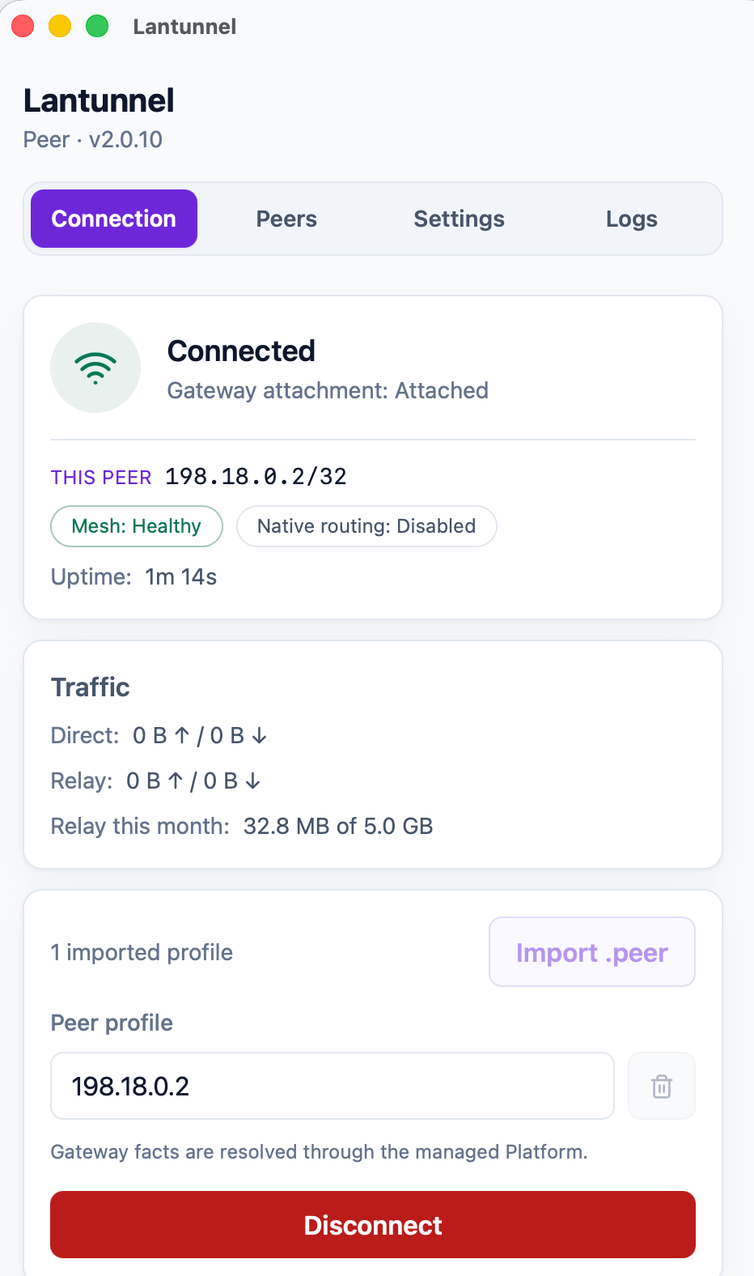
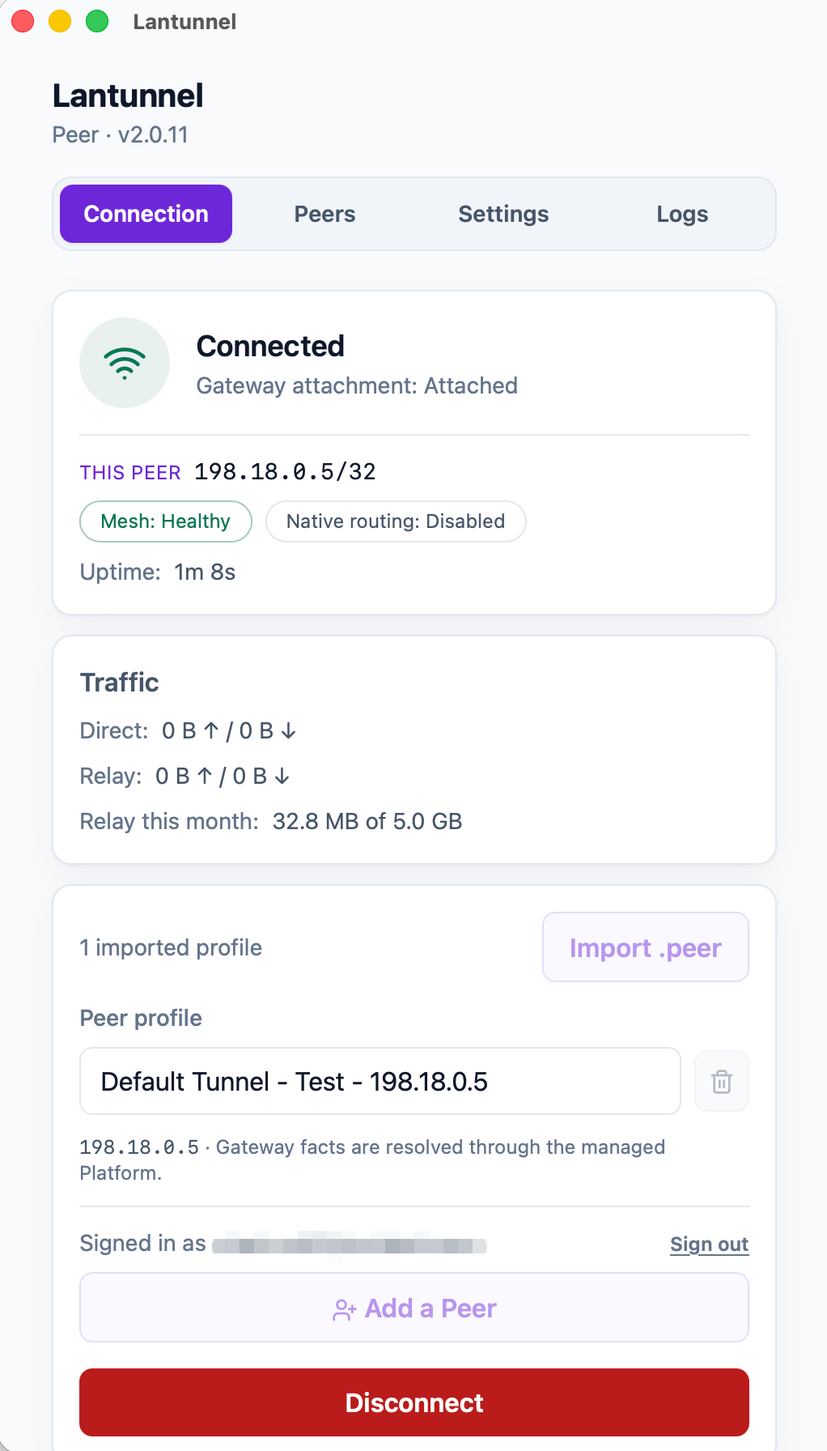
docs: describe the Client sign-in the way it actually works
The README was written before the Peer picker existed and still said the
Client only creates a Peer, and the usage guides never mentioned signing
in from the app at all — they documented the browser route as the only
one there was.

Both now carry the real sequence: pick the Tunnel by name, then adopt a
Peer it has already issued or create one. Adopting is the part worth
naming, because a device added from the Console already has an identity
and a second one leaves the first orphaned in the Tunnel.

It also corrects a claim I had put in the release notes: signing in is a
desktop and phone feature. The device grant needs a screen to show its
code on, and a headless Client has none, so it still imports a profile
file — the guides say so where a server or router operator will read it.

The Connection screenshot is from a connected Client with the account
panel, which is the part of that screen that changed.

diff --git a/README.zh-TW.md b/README.zh-TW.md
@@ -84,7 +84,7 @@ Lantunnel 把這些機器組成一個小型私有網路 —— 一條 **Tunnel**
 
 <table>
   <tr>
-    <td width="25%" align="center" valign="top"><img src="./docs/images/client-connection.png" width="220" alt="連線"><br><sub><b>連線</b><br>連線狀態、本機 Overlay IP，以及直連和中繼各走了多少位元組。</sub></td>
+    <td width="25%" align="center" valign="top"><img src="./docs/images/client-connection.png" width="220" alt="連線"><br><sub><b>連線</b><br>連線狀態、本機 Overlay IP、直連與中繼各走了多少位元組，以及目前登入的帳號。</sub></td>
     <td width="25%" align="center" valign="top"><img src="./docs/images/client-peers.png" width="220" alt="Peers"><br><sub><b>Peers</b><br>Tunnel 裡的每個 Peer、它的 Overlay IP，以及目前走的路徑。</sub></td>
     <td width="25%" align="center" valign="top"><img src="./docs/images/client-settings.png" width="220" alt="設定"><br><sub><b>設定</b><br>開機自動啟動、原生路由、內網匯出。</sub></td>
     <td width="25%" align="center" valign="top"><img src="./docs/images/client-access.png" width="220" alt="存取"><br><sub><b>存取</b><br>本機回送 SOCKS5 監聽，以及這台裝置願意提供什麼。</sub></td>
@@ -153,16 +153,24 @@ flowchart LR
 什麼都不用部署。平台替你跑 Gateway 叢集，你只跑 Client。
 
 1. **裝上 Client** —— [lantunnel.app/download](https://lantunnel.app/download)。
-2. **登入** —— 在連線頁點「Sign in」。Client 會開啟你的瀏覽器，你核對並批准它顯示的那串碼，就登入好了。不用下載任何檔案。
-3. **加一個 Peer** —— 點「Add a Peer」，選好 Tunnel，給這台裝置取個名字。Client 會一步建好 Peer 並匯入進來。
+2. **登入** —— 在連線頁點「Sign in」。Client 會顯示一串短碼並開啟瀏覽器；在網頁上核對並批准這串碼，Client 就會自己登入。什麼都不用下載。
+3. **加一個 Peer** —— 點「Add a Peer」，按名稱選好 Tunnel。然後要麼**直接取用這條 Tunnel 已經簽發過的 Peer**，要麼給這台裝置取個名字新建一個。兩種方式都會在同一步裡把設定匯入進來。
 4. **連線。**
 
 每台想加進 Tunnel 的裝置都重複一遍。然後把程式的代理指到 `127.0.0.1:1080`，或者開啟系統路由直接用內網位址存取。
 
-<details>
-<summary>更習慣在瀏覽器裡操作？或者要從手機加入？</summary>
+> 同一台機器上，優先取用已有的 Peer，而不是再建一個。被你丟下的那個 Peer 仍然留在 Tunnel 裡，還占著它的位址。
 
-到 [lantunnel.app](https://lantunnel.app/) 建好 Peer，下載它的 `.peer` 檔，在 Client 裡用「Import .peer」匯入。Android 和 iOS 上掃這份設定的 QR Code 同樣能匯入。
+<details>
+<summary>無介面主機？或者還沒有帳號？</summary>
+
+登入是桌面端和手機端的功能 —— 無介面的 Client 沒有螢幕顯示短碼，所以它走設定檔這條路。到 [lantunnel.app](https://lantunnel.app/) 建好 Peer，下載它的 `.peer`，然後匯入：
+
+```bash
+lantunnel-client tunnel import ./nas.peer
+```
+
+桌面端用「Import .peer」是同一回事；Android 和 iOS 上掃這份設定的 QR Code 也能匯入。
 </details>
 
 <a id="mode-2"></a>

diff --git a/README.zh-CN.md b/README.zh-CN.md
@@ -84,7 +84,7 @@ Lantunnel 把这些机器组成一个小小的私有网络 —— 一条 **Tunne
 
 <table>
   <tr>
-    <td width="25%" align="center" valign="top"><img src="./docs/images/client-connection.png" width="220" alt="连接"><br><sub><b>连接</b><br>连接状态、本机 Overlay IP，以及直连和中继各走了多少字节。</sub></td>
+    <td width="25%" align="center" valign="top"><img src="./docs/images/client-connection.png" width="220" alt="连接"><br><sub><b>连接</b><br>连接状态、本机 Overlay IP、直连与中继各走了多少字节，以及当前登录的账号。</sub></td>
     <td width="25%" align="center" valign="top"><img src="./docs/images/client-peers.png" width="220" alt="Peers"><br><sub><b>Peers</b><br>Tunnel 里的每个 Peer、它的 Overlay IP，以及当前走的路径。</sub></td>
     <td width="25%" align="center" valign="top"><img src="./docs/images/client-settings.png" width="220" alt="设置"><br><sub><b>设置</b><br>开机自启、原生路由、内网导出。</sub></td>
     <td width="25%" align="center" valign="top"><img src="./docs/images/client-access.png" width="220" alt="访问"><br><sub><b>访问</b><br>本地回环 SOCKS5 监听，以及这台设备愿意提供什么。</sub></td>
@@ -153,16 +153,24 @@ flowchart LR
 什么都不用部署。平台替你跑 Gateway 集群，你只跑 Client。
 
 1. **装上 Client** —— [lantunnel.app/download](https://lantunnel.app/download)。
-2. **登录** —— 在连接页点「Sign in」。Client 会打开你的浏览器，你核对并批准它显示的那串码，就登录好了。不用下载任何文件。
-3. **加一个 Peer** —— 点「Add a Peer」，选好 Tunnel，给这台设备起个名字。Client 会一步建好 Peer 并导入进来。
+2. **登录** —— 在连接页点「Sign in」。Client 会显示一串短码并打开浏览器；在网页上核对并批准这串码，Client 就自己登录好了。什么都不用下载。
+3. **加一个 Peer** —— 点「Add a Peer」，按名字选好 Tunnel。然后要么**直接取用这条 Tunnel 已经签发过的 Peer**，要么给这台设备起个名字新建一个。两种方式都会在同一步里把配置导入进来。
 4. **连接。**
 
 每台想加进 Tunnel 的设备都重复一遍。然后把程序的代理指到 `127.0.0.1:1080`，或者打开系统路由直接用内网地址访问。
 
-<details>
-<summary>更习惯在浏览器里操作？或者要从手机加入？</summary>
+> 同一台机器上，优先取用已有的 Peer，而不是再建一个。被你丢下的那个 Peer 仍然留在 Tunnel 里，还占着它的地址。
 
-到 [lantunnel.app](https://lantunnel.app/) 建好 Peer，下载它的 `.peer` 文件，在 Client 里用「Import .peer」导入。Android 和 iOS 上扫这份配置的二维码同样能导入。
+<details>
+<summary>无界面主机？或者还没有账号？</summary>
+
+登录是桌面端和手机端的功能 —— 无界面的 Client 没有屏幕显示短码，所以它走配置文件这条路。到 [lantunnel.app](https://lantunnel.app/) 建好 Peer，下载它的 `.peer`，然后导入：
+
+```bash
+lantunnel-client tunnel import ./nas.peer
+```
+
+桌面端用「Import .peer」是同一回事；Android 和 iOS 上扫这份配置的二维码也能导入。
 </details>
 
 <a id="mode-2"></a>

diff --git a/README.md b/README.md
@@ -97,7 +97,7 @@ Lantunnel, easiest first — and the first one is three steps with no server to 
 
 <table>
   <tr>
-    <td width="25%" align="center" valign="top"><img src="./docs/images/client-connection.png" width="220" alt="Connection"><br><sub><b>Connection</b><br>State, this Peer's Overlay IP, and direct versus relayed bytes.</sub></td>
+    <td width="25%" align="center" valign="top"><img src="./docs/images/client-connection.png" width="220" alt="Connection"><br><sub><b>Connection</b><br>State, this Peer's Overlay IP, direct versus relayed bytes, and the account this Client is signed in as.</sub></td>
     <td width="25%" align="center" valign="top"><img src="./docs/images/client-peers.png" width="220" alt="Peers"><br><sub><b>Peers</b><br>Every Peer in the Tunnel, its Overlay IP, and the path in use.</sub></td>
     <td width="25%" align="center" valign="top"><img src="./docs/images/client-settings.png" width="220" alt="Settings"><br><sub><b>Settings</b><br>Start at login, native routing, LAN export.</sub></td>
     <td width="25%" align="center" valign="top"><img src="./docs/images/client-access.png" width="220" alt="Access"><br><sub><b>Access</b><br>The loopback SOCKS5 listener and what this device will serve.</sub></td>
@@ -124,21 +124,33 @@ the first one** — it needs no server, no certificates, and no DNS.
 Nothing to deploy. The Platform runs the Gateway fleet; you run the Client.
 
 1. **Install the Client** — [lantunnel.app/download](https://lantunnel.app/download).
-2. **Sign in** — press *Sign in* on the Connection screen. The Client opens your browser,
-   you approve the code it shows, and it is signed in. No file to download.
-3. **Add a Peer** — press *Add a Peer*, choose your Tunnel, and name this device. The
-   Client creates the Peer and imports it in one step.
+2. **Sign in** — press *Sign in* on the Connection screen. The Client shows a short code
+   and opens your browser; approve that code there and the Client is signed in. Nothing to
+   download.
+3. **Add a Peer** — press *Add a Peer* and pick your Tunnel by name. Then either take a
+   Peer the Tunnel has already issued, or name this device and create a new one. Either
+   way the profile is imported here in the same step.
 4. **Connect.**
 
 Repeat on every device you want in the Tunnel. Then point an app at `127.0.0.1:1080`, or
 turn on native routing and use the LAN addresses directly.
 
-<details>
-<summary>Prefer the browser, or joining from a phone?</summary>
+> Take the Peer that already exists rather than adding a second one for the same machine.
+> A Peer you leave behind stays in the Tunnel and keeps its address.
 
-Create the Peer at [lantunnel.app](https://lantunnel.app/), download its `.peer` file, and
-use **Import .peer** in the Client. On Android and iOS the same profile imports by
-scanning its QR code.
+<details>
+<summary>Headless host, or no account?</summary>
+
+Signing in is a desktop and phone feature — a headless Client has no screen to show a code
+on, so it takes a profile file. Create the Peer at
+[lantunnel.app](https://lantunnel.app/), download its `.peer`, and import it:
+
+```bash
+lantunnel-client tunnel import ./nas.peer
+```
+
+**Import .peer** does the same in the desktop app, and Android and iOS also import by
+scanning the profile's QR code.
 </details>
 
 <a id="mode-2"></a>

diff --git a/docs/USAGE.ja.md b/docs/USAGE.ja.md
@@ -57,6 +57,23 @@
 
 **[lantunnel.app](https://lantunnel.app/)** が Gateway フリートを代わりに運用します。アカウントごとに恒久無料の Tunnel が 1 本付き、P2P 通信は無制限、各 Client の背後の LAN 機器数も無制限、加えて直結できなかったときのために月 5 GB の暗号化リレーが使えます。
 
+### Client だけで済ませる
+
+デスクトップとスマートフォンの Client は最後まで自力でできるので、マシン間でファイルを運ぶ必要がありません。
+
+1. **Client を入れる** — [lantunnel.app/download](https://lantunnel.app/download) から、またはこのリポジトリからビルドして。
+2. **サインイン** — 接続画面の「Sign in」を押します。Client が短いコードを表示してブラウザーを開きます。ページのコードと Client のコードが同じことを確かめて承認すれば、Client は自分でサインインします。承認してよいのは、いま自分のデバイスで読み取っているコードだけです。
+3. **Peer を追加** — 「Add a Peer」を押し、Tunnel を名前で選びます。その Tunnel がすでに発行した Peer を引き取るか（Console から先に追加した端末にはすでに 1 つあります）、この端末に名前を付けて新規作成するかを選べます。プロファイルは同じ操作で取り込まれます。
+4. **接続。**
+
+端末ごとに繰り返します。ブラウザーで作ったばかりの Tunnel や Peer は、Tunnel 選択欄の「Refresh」を押すと現れます。
+
+サインインすると、そのアカウントのトークンが端末に保存されます。Tunnel 一覧を取得し Peer を追加できるものなので、所有者だけが読める形で保管されます — Linux と macOS では `0600`、iOS では Keychain、Android ではアプリ専用ストレージ。「Sign out」で削除されます。有効期限があり、切れた場合は自動更新ではなくサインアウトします。
+
+### ブラウザーで済ませる
+
+こちらは変わりません。画面がなくコードを表示できないヘッドレスホストでは、今もこの手順だけです。
+
 1. **Tunnel を作る** — [lantunnel.app](https://lantunnel.app/) に登録して無料 Tunnel を作成します。Gateway のアドレスも証明書も DNS 設定も不要です。
 2. **デバイスごとに Peer を追加** — ノート PC に 1 つ、NAS に 1 つ、デスクトップに 1 つ。それぞれの `.peer` プロファイルをダウンロードします。
 3. **Client をインストール** — [lantunnel.app/download](https://lantunnel.app/download) から、またはこのリポジトリからビルドして。

diff --git a/docs/USAGE.md b/docs/USAGE.md
@@ -67,6 +67,35 @@ run both, since a Tunnel is independent of any account.
 gets one permanent Free Tunnel: unlimited direct peer-to-peer traffic, unlimited LAN
 devices behind each Client, and 5 GB/month of encrypted relay for when direct fails.
 
+### From the Client
+
+The desktop and phone Clients do the whole thing, so there is no file to move between
+machines:
+
+1. **Install the Client** — [lantunnel.app/download](https://lantunnel.app/download), or
+   build it from this repository.
+2. **Sign in** — press *Sign in* on the Connection screen. The Client shows a short code
+   and opens your browser. Check that the code on the page matches the one on the Client,
+   approve it, and the Client signs in by itself. Only ever approve a code you are reading
+   off your own device.
+3. **Add a Peer** — press *Add a Peer* and pick the Tunnel by name. Then either take a
+   Peer the Tunnel has already issued — a device added from the Console first already has
+   one — or name this device and create a new one. The profile is imported in the same
+   step.
+4. **Connect.**
+
+Repeat on every device. A Tunnel or Peer created in the browser a moment ago appears after
+*Refresh* in the Tunnel picker.
+
+Signing in stores a token for this account on the device. It can list your Tunnels and add
+Peers to them, so it is kept owner-only — mode `0600` on Linux and macOS, the Keychain on
+iOS, app-private storage on Android — and *Sign out* removes it. It expires on its own,
+and an expired one signs the Client out rather than renewing itself.
+
+### From the browser
+
+Unchanged, and still the route for a headless host, which has no screen to show a code on:
+
 1. **Create a Tunnel** — sign up at [lantunnel.app](https://lantunnel.app/) and create your
    Free Tunnel. No Gateway address, no certificate, no DNS to configure.
 2. **Add a Peer per device** — one for the laptop, one for the NAS, one for the desktop.
@@ -439,6 +468,10 @@ what the UI's "block all incoming" writes, so the saved file matches what you as
 
 `--headless` (alias `--no-ui`) runs the identical runtime with no window, tray, or WebView
 — same reconnect logic, same PeerLink and relay behaviour, same SOCKS5 and TUN surfaces.
+
+Signing in from the app is a desktop and phone feature: the device grant needs a screen to
+show its code on. A headless host imports a `.peer` file — download it from the Console, or
+issue it with `lantunnel-admin`, and run `lantunnel-client tunnel import`.
 
 Download `lantunnel-client-headless-<version>-<triple>` rather than the desktop package.
 It is the same runtime built with the UI compiled out: no Tauri, no WebView, 5-7MB

diff --git a/docs/USAGE.fr.md b/docs/USAGE.fr.md
@@ -57,6 +57,23 @@ Les deux voies utilisent le même Client et le même protocole. Vous pouvez comm
 
 **[lantunnel.app](https://lantunnel.app/)** exploite la flotte de Gateways à votre place. Chaque compte dispose d'un Tunnel gratuit permanent : trafic pair à pair illimité, nombre illimité d'appareils LAN derrière chaque Client, et 5 Go de relais chiffré par mois pour les cas où la liaison directe échoue.
 
+### Depuis le Client
+
+Les Clients de bureau et mobiles font tout le parcours : aucun fichier à déplacer d'une machine à l'autre.
+
+1. **Installez le Client** — depuis [lantunnel.app/download](https://lantunnel.app/download), ou compilé depuis ce dépôt.
+2. **Connectez-vous** — appuyez sur « Sign in » dans l'écran de connexion. Le Client affiche un code court et ouvre votre navigateur. Vérifiez que le code de la page correspond à celui du Client, approuvez-le, et le Client se connecte tout seul. N'approuvez qu'un code que vous lisez à cet instant sur votre propre appareil.
+3. **Ajoutez un Peer** — appuyez sur « Add a Peer » et choisissez le Tunnel par son nom. Reprenez ensuite un Peer que le Tunnel a déjà émis — un appareil ajouté auparavant depuis la Console en a déjà un — ou nommez cet appareil et créez-en un nouveau. Le profil est importé dans la même étape.
+4. **Connectez-vous.**
+
+Recommencez sur chaque appareil. Un Tunnel ou un Peer créé il y a un instant dans le navigateur apparaît après un clic sur « Refresh » à côté du sélecteur de Tunnel.
+
+La connexion enregistre sur l'appareil un jeton de ce compte. Il peut lister vos Tunnels et y ajouter des Peers : il est donc conservé en lecture réservée au propriétaire — permissions `0600` sous Linux et macOS, le Trousseau sous iOS, le stockage privé de l'application sous Android — et « Sign out » le supprime. Il expire de lui-même, et un jeton expiré déconnecte le Client au lieu de se renouveler.
+
+### Depuis le navigateur
+
+Inchangé, et toujours la voie d'un hôte sans interface, qui n'a pas d'écran pour afficher un code :
+
 1. **Créez un Tunnel** — inscrivez-vous sur [lantunnel.app](https://lantunnel.app/) et créez votre Tunnel gratuit. Aucune adresse de Gateway, aucun certificat, aucun DNS à configurer.
 2. **Ajoutez un Peer par appareil** — un pour le portable, un pour le NAS, un pour le poste fixe. Téléchargez chaque profil `.peer`.
 3. **Installez le Client** — depuis [lantunnel.app/download](https://lantunnel.app/download), ou en le compilant depuis ce dépôt.

diff --git a/docs/USAGE.de.md b/docs/USAGE.de.md
@@ -57,6 +57,23 @@ Beide Wege nutzen denselben Client und dasselbe Protokoll. Du kannst gehostet an
 
 **[lantunnel.app](https://lantunnel.app/)** betreibt die Gateway-Flotte für dich. Jedes Konto bekommt einen dauerhaft kostenlosen Tunnel: unbegrenzten Direktverkehr, beliebig viele LAN-Geräte hinter jedem Client und 5 GB verschlüsseltes Relay pro Monat für die Fälle, in denen die Direktverbindung scheitert.
 
+### Im Client
+
+Der Desktop- und der Telefon-Client erledigen den ganzen Weg, es muss also keine Datei zwischen Maschinen wandern:
+
+1. **Client installieren** — von [lantunnel.app/download](https://lantunnel.app/download) oder aus diesem Repository gebaut.
+2. **Anmelden** — im Verbindungsbildschirm auf „Sign in“ drücken. Der Client zeigt einen kurzen Code und öffnet deinen Browser. Prüfe, dass der Code auf der Seite dem im Client entspricht, bestätige ihn, und der Client meldet sich von selbst an. Bestätige nur einen Code, den du gerade auf deinem eigenen Gerät abliest.
+3. **Peer hinzufügen** — auf „Add a Peer“ drücken und den Tunnel am Namen wählen. Dann entweder einen Peer übernehmen, den der Tunnel schon ausgestellt hat — ein zuvor in der Konsole angelegtes Gerät hat bereits einen —, oder diesem Gerät einen Namen geben und einen neuen anlegen. Das Profil wird im selben Schritt importiert.
+4. **Verbinden.**
+
+Auf jedem Gerät wiederholen. Ein eben im Browser angelegter Tunnel oder Peer erscheint, sobald du neben der Tunnel-Auswahl „Refresh“ drückst.
+
+Beim Anmelden wird ein Token dieses Kontos auf dem Gerät abgelegt. Es kann deine Tunnel auflisten und ihnen Peers hinzufügen, also liegt es nur für den Besitzer lesbar — Modus `0600` unter Linux und macOS, der Schlüsselbund unter iOS, app-privater Speicher unter Android — und „Sign out“ entfernt es. Es läuft von selbst ab, und ein abgelaufenes meldet den Client ab, statt sich zu erneuern.
+
+### Im Browser
+
+Unverändert, und weiterhin der Weg für einen Host ohne Oberfläche, der keinen Bildschirm für einen Code hat:
+
 1. **Tunnel anlegen** — bei [lantunnel.app](https://lantunnel.app/) registrieren und den kostenlosen Tunnel erstellen. Keine Gateway-Adresse, kein Zertifikat, kein DNS.
 2. **Pro Gerät einen Peer hinzufügen** — einen fürs Notebook, einen fürs NAS, einen für den Desktop. Lade jedes `.peer`-Profil herunter.
 3. **Client installieren** — von [lantunnel.app/download](https://lantunnel.app/download) oder aus diesem Repository gebaut.

diff --git a/docs/USAGE.es.md b/docs/USAGE.es.md
@@ -57,6 +57,23 @@ Ambos usan el mismo Client y el mismo protocolo. Puedes empezar con el alojado y
 
 **[lantunnel.app](https://lantunnel.app/)** se encarga de la flota de Gateways por ti. Cada cuenta incluye un Tunnel gratuito permanente: tráfico punto a punto ilimitado, dispositivos LAN ilimitados detrás de cada Client y 5 GB al mes de relay cifrado para cuando la conexión directa no salga.
 
+### Desde el Cliente
+
+Los Clientes de escritorio y de móvil hacen todo el recorrido, así que no hay ningún archivo que mover entre máquinas:
+
+1. **Instala el Cliente** — desde [lantunnel.app/download](https://lantunnel.app/download) o compilándolo desde este repositorio.
+2. **Inicia sesión** — pulsa «Sign in» en la pantalla de conexión. El Cliente muestra un código corto y abre tu navegador. Comprueba que el código de la página coincide con el del Cliente, apruébalo y el Cliente inicia sesión solo. Aprueba únicamente un código que estés leyendo en ese momento en tu propio dispositivo.
+3. **Añade un Peer** — pulsa «Add a Peer» y elige el Tunnel por su nombre. Después toma un Peer que el Tunnel ya haya emitido —un dispositivo añadido antes desde la Consola ya tiene uno— o ponle nombre a este dispositivo y crea uno nuevo. El perfil se importa en el mismo paso.
+4. **Conecta.**
+
+Repítelo en cada dispositivo. Un Tunnel o un Peer creado hace un momento en el navegador aparece al pulsar «Refresh» junto al selector de Tunnel.
+
+Iniciar sesión guarda en el dispositivo un token de esa cuenta. Puede listar tus Tunnels y añadirles Peers, así que se guarda solo para el propietario —permisos `0600` en Linux y macOS, el Llavero en iOS, almacenamiento privado de la app en Android— y «Sign out» lo elimina. Caduca por sí solo, y uno caducado cierra la sesión del Cliente en vez de renovarse.
+
+### Desde el navegador
+
+No cambia, y sigue siendo el camino de un host sin interfaz, que no tiene pantalla donde mostrar un código:
+
 1. **Crea un Tunnel** — regístrate en [lantunnel.app](https://lantunnel.app/) y crea tu Tunnel gratuito. Sin dirección de Gateway, sin certificados y sin DNS que configurar.
 2. **Añade un Peer por dispositivo** — uno para el portátil, otro para el NAS, otro para el sobremesa. Descarga cada perfil `.peer`.
 3. **Instala el Client** — desde [lantunnel.app/download](https://lantunnel.app/download) o compilándolo desde este repositorio.

diff --git a/docs/USAGE.zh-TW.md b/docs/USAGE.zh-TW.md
@@ -57,6 +57,23 @@
 
 **[lantunnel.app](https://lantunnel.app/)** 替你營運整個 Gateway 叢集。每個帳號有一條永久免費的 Tunnel：點對點流量不限，每個 Client 後面的內網裝置數不限，另外每月 5 GB 加密中繼，留給直連打不通的時候。
 
+### 在 Client 裡完成
+
+桌面端和手機端可以全程自己搞定，不用在機器之間搬檔案：
+
+1. **裝 Client** —— 從 [lantunnel.app/download](https://lantunnel.app/download) 下載，或從本儲存庫自行建置。
+2. **登入** —— 在連線頁點「Sign in」。Client 會顯示一串短碼並開啟瀏覽器。核對網頁上的碼跟 Client 上的一致，批准它，Client 就會自己登入。只批准你此刻正在自己裝置上讀到的碼。
+3. **加一個 Peer** —— 點「Add a Peer」，按名稱選好 Tunnel。然後要麼取用這條 Tunnel 已經簽發過的 Peer（先前從 Console 加過的裝置就已經有一個），要麼給這台裝置取名新建一個。設定會在同一步裡匯入。
+4. **連線。**
+
+每台裝置重複一遍。剛在瀏覽器裡新建的 Tunnel 或 Peer，點一下 Tunnel 選擇器旁的「Refresh」就會出現。
+
+登入會在這台裝置上儲存一個該帳號的權杖。它能列出你的 Tunnel 並在其中新增 Peer，所以只有擁有者可讀 —— Linux 和 macOS 上是 `0600`，iOS 存在 Keychain，Android 存在應用私有儲存 —— 點「Sign out」即可刪除。它本身有效期有限，過期後 Client 會登出而不是自動續期。
+
+### 在瀏覽器裡完成
+
+這條路沒變，也仍然是無介面主機唯一的路 —— 它沒有螢幕顯示短碼：
+
 1. **建立一條 Tunnel** —— 到 [lantunnel.app](https://lantunnel.app/) 註冊並建立免費 Tunnel。不必填 Gateway 位址、不必準備憑證、不必設定 DNS。
 2. **為每台裝置新增一個 Peer** —— 筆電一個、NAS 一個、桌機一個。分別下載 `.peer` 設定檔。
 3. **安裝 Client** —— 從 [lantunnel.app/download](https://lantunnel.app/download) 下載，或自行從本儲存庫建置。

diff --git a/docs/USAGE.zh-CN.md b/docs/USAGE.zh-CN.md
@@ -57,6 +57,23 @@
 
 **[lantunnel.app](https://lantunnel.app/)** 替你运行整个 Gateway 集群。每个账号有一条永久免费的 Tunnel：点对点流量不限，每个 Client 后面的内网设备数不限，外加每月 5 GB 加密中继，留给直连打不通的时候。
 
+### 在 Client 里完成
+
+桌面端和手机端可以全程自己搞定，不用在机器之间搬文件：
+
+1. **装 Client** —— 从 [lantunnel.app/download](https://lantunnel.app/download) 下载，或者从本仓库自行构建。
+2. **登录** —— 在连接页点「Sign in」。Client 会显示一串短码并打开浏览器。核对网页上的码跟 Client 上的一致，批准它，Client 就会自己登录。只批准你此刻正在自己设备上读到的码。
+3. **加一个 Peer** —— 点「Add a Peer」，按名字选好 Tunnel。然后要么取用这条 Tunnel 已经签发过的 Peer（先前从 Console 加过的设备就已经有一个），要么给这台设备起名新建一个。配置会在同一步里导入。
+4. **连接。**
+
+每台设备重复一遍。刚在浏览器里新建的 Tunnel 或 Peer，点一下 Tunnel 选择器旁的「Refresh」就会出现。
+
+登录会在这台设备上保存一个该账号的令牌。它能列出你的 Tunnel 并向其中添加 Peer，所以只有属主可读 —— Linux 和 macOS 上是 `0600`，iOS 存在 Keychain，Android 存在应用私有存储 —— 点「Sign out」即可删除。它自身有有效期，过期后 Client 会登出而不是自动续期。
+
+### 在浏览器里完成
+
+这条路没变，也仍然是无界面主机唯一的路 —— 它没有屏幕显示短码：
+
 1. **建一条 Tunnel** —— 到 [lantunnel.app](https://lantunnel.app/) 注册并创建免费 Tunnel。不用填 Gateway 地址，不用证书，不用配 DNS。
 2. **给每台设备加一个 Peer** —— 笔记本一个，NAS 一个，台式机一个。分别下载 `.peer` 配置文件。
 3. **装 Client** —— 从 [lantunnel.app/download](https://lantunnel.app/download) 下载，或者从本仓库自行构建。
